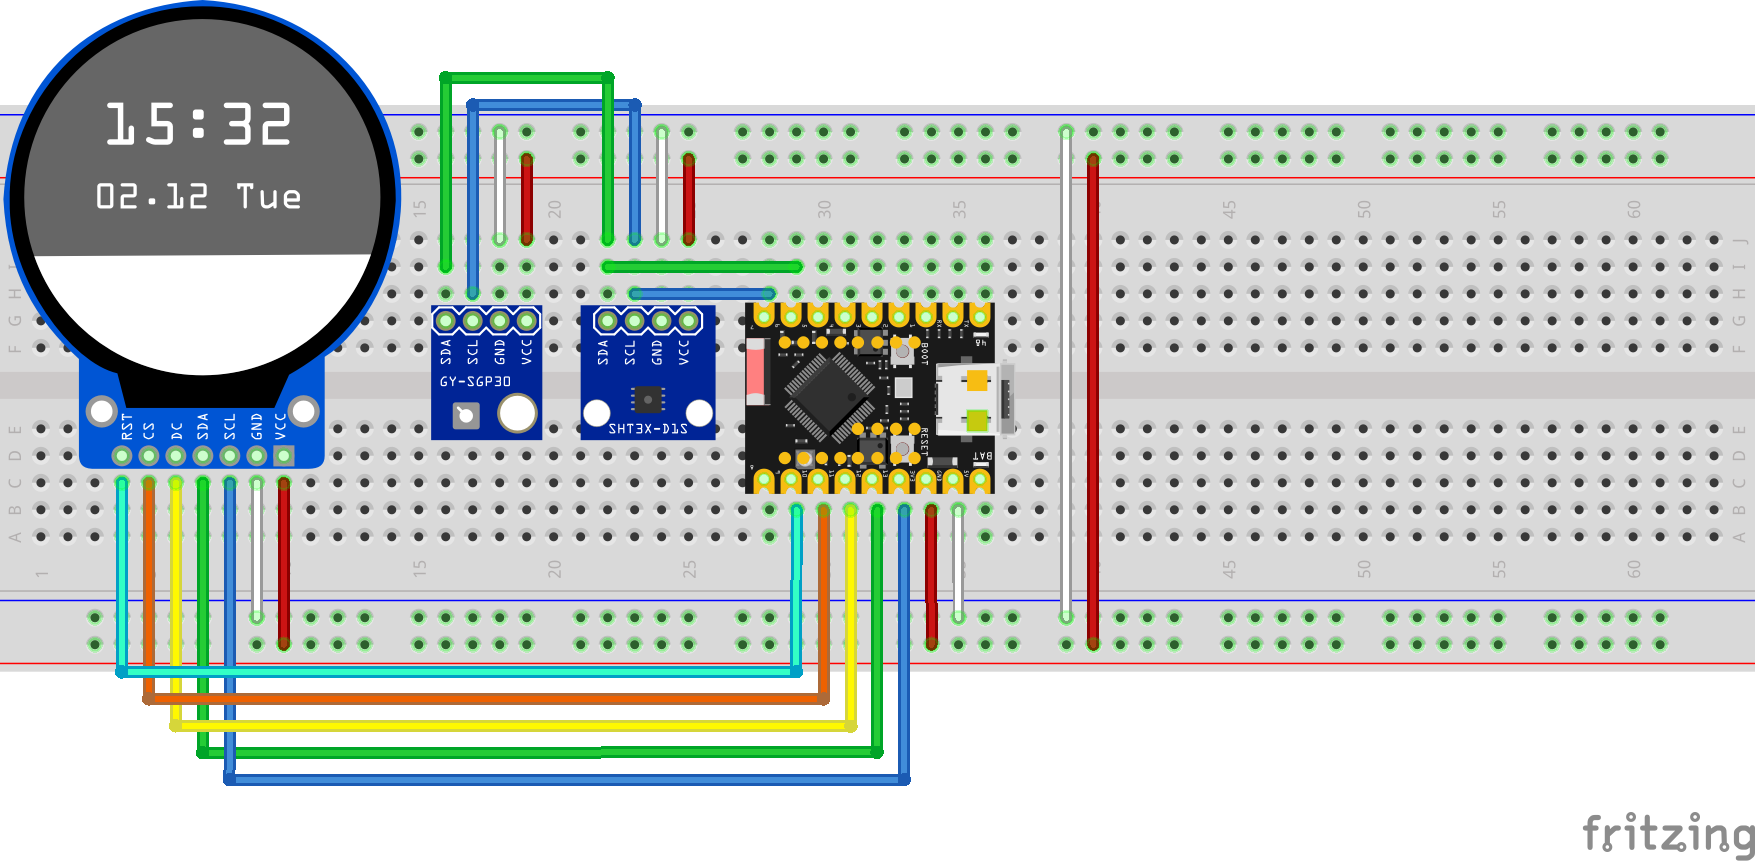
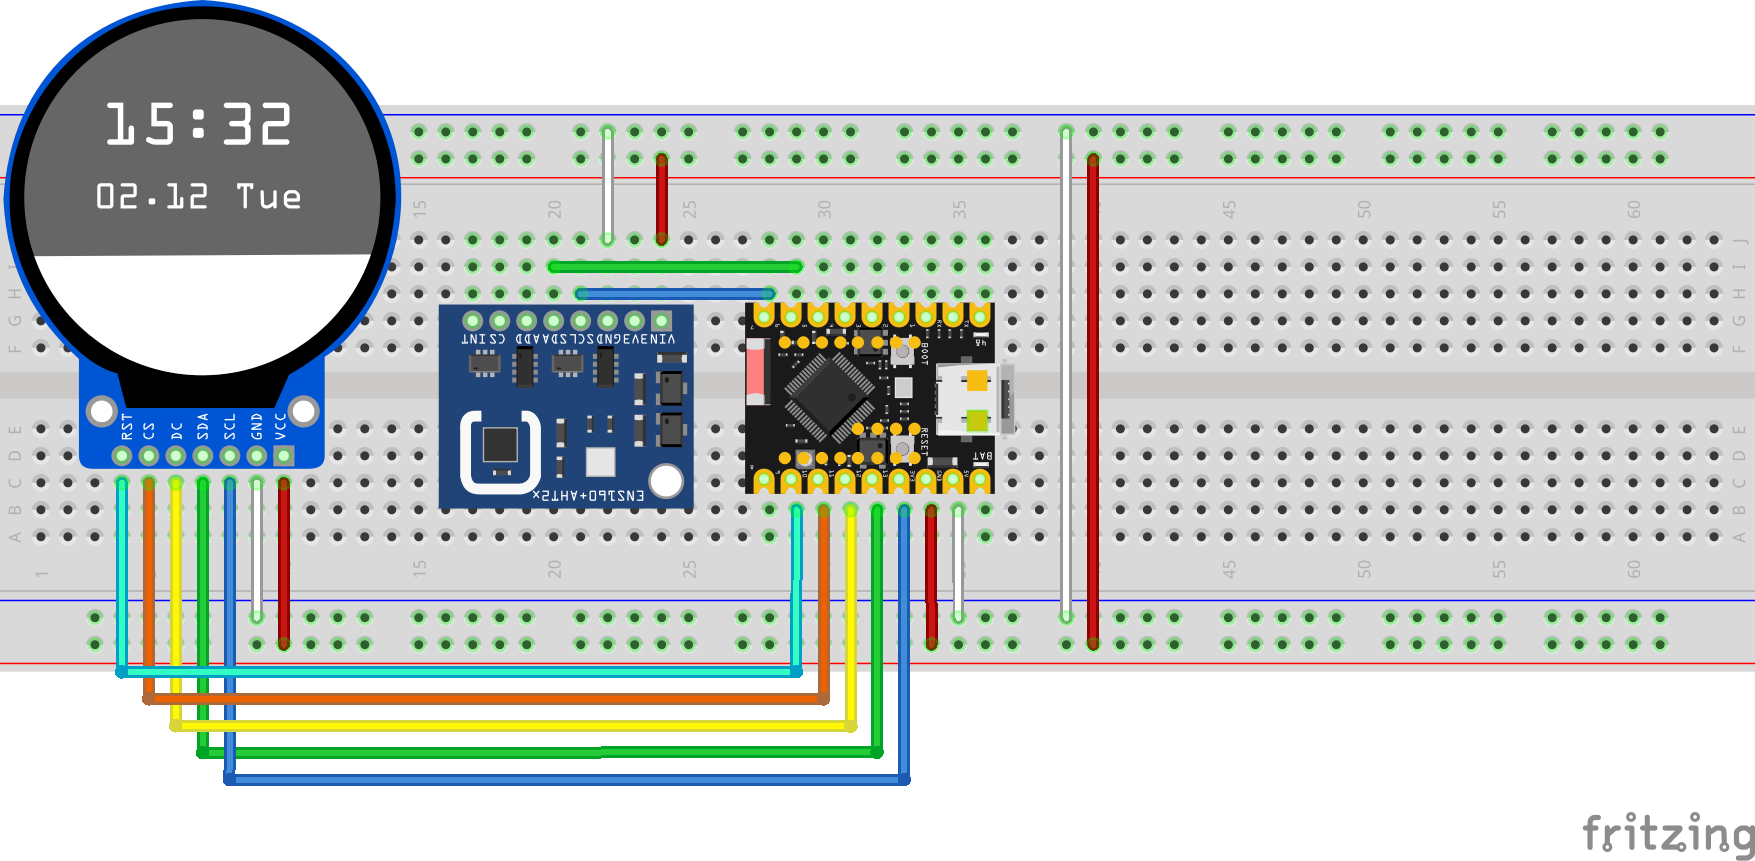
Update README and wiring diagram files
Added a parts list and wiring diagram reference to the README. Updated the Fritzing wiring sketch and its PNG image in the docs directory to reflect the latest hardware setup.

Changed region(s): [[0.2462, 0.0604, 0.4308, 0.6039]]

diff --git a/README.md b/README.md
@@ -1,2 +1,10 @@
 # EnvironmentMonitoring
 Environment Monitoring for reading air quality, temperature and humidity.
+
+Parts
+ * ESP32-C6-SuperMini devboard (1x)
+ * GC9A01 1.28 Inch TFT Display (1x)
+ * ENS160+AHT21 Air Quality Sensor (1x)
+ * USB Whip for power connection (1x)
+ 
+![Wiring Diagram](docs/WiringSketch.png)
